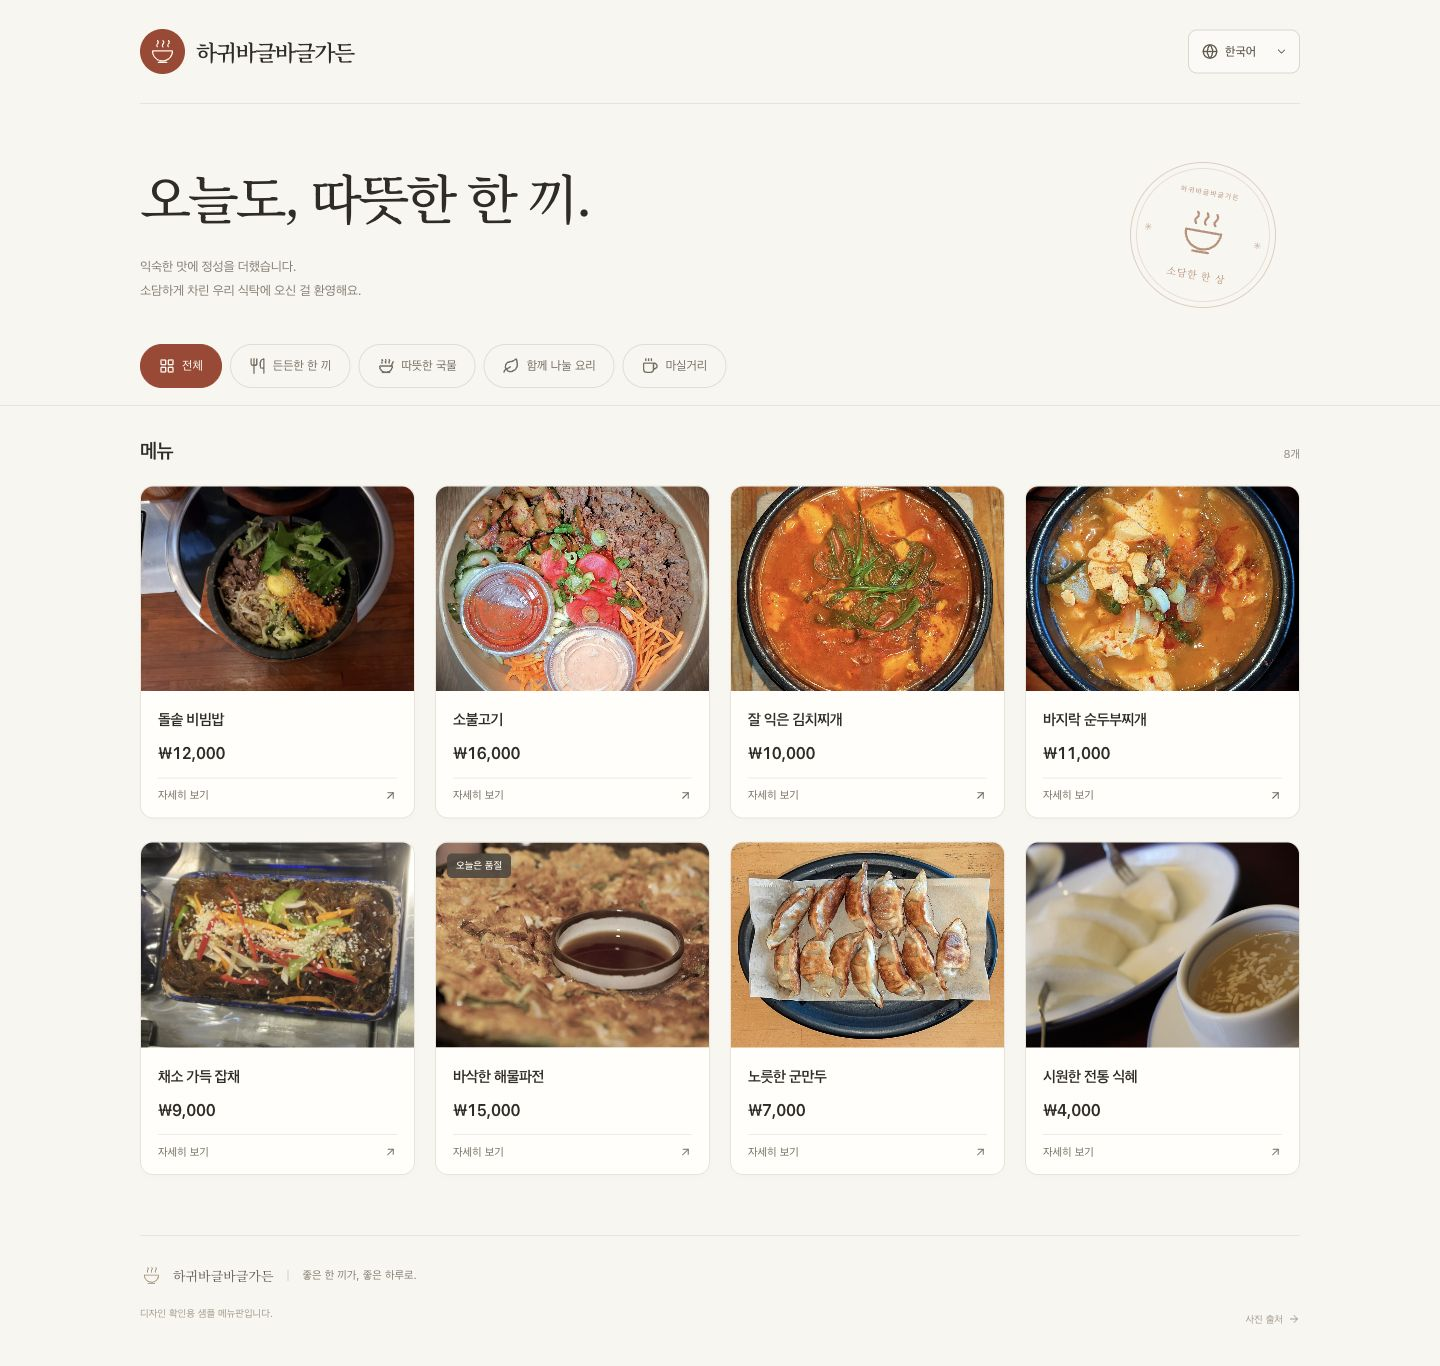
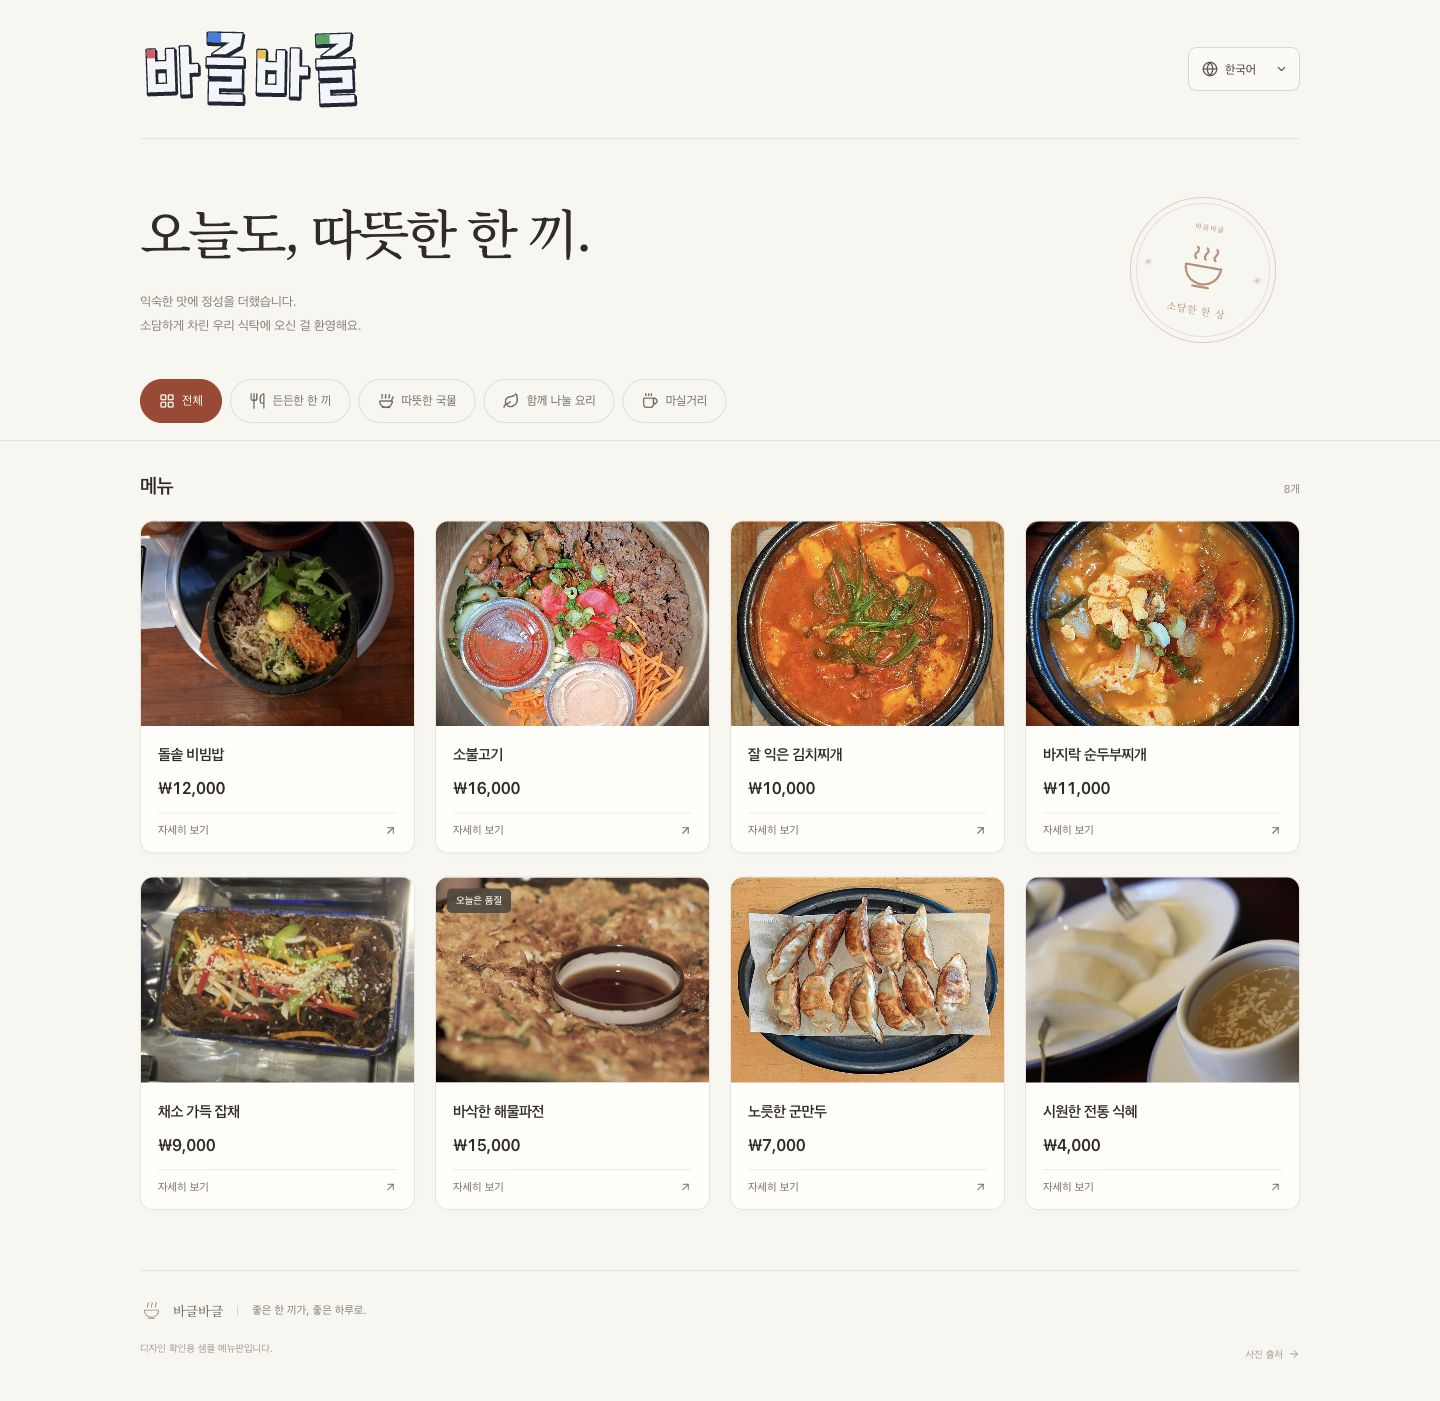
feat: add sign-inspired Bageul Bageul wordmark

diff --git a/public/photo-credits.html b/public/photo-credits.html
@@ -1,1 +1,1 @@
-<!doctype html><html lang="en"><meta charset="utf-8"><meta name="viewport" content="width=device-width,initial-scale=1"><title>Photo credits · 하귀바글바글가든</title><style>body{max-width:880px;margin:40px auto;padding:24px;font:16px/1.6 system-ui;background:#f8f6f0;color:#302c25}article{display:flex;gap:24px;padding:24px 0;border-bottom:1px solid #ddd}img{width:120px;height:100px;object-fit:cover;border-radius:8px}h2{font-size:18px;margin:0}p{margin:4px 0}a{color:#a44430}@media(max-width:500px){article{display:block}}</style><a href="/menu">← Menu</a><h1>Photo credits</h1><p>Demo photographs. Original licenses apply to each image. These are not photographs supplied by the restaurant.</p><article><img src="/images/bibimbap.jpg" alt="Hot stone pot bibimbap with beef (Bulgogi dolsot bibimbap) - Kogi 2023-10-16.jpg"><div><h2>Hot stone pot bibimbap with beef (Bulgogi dolsot bibimbap) - Kogi 2023-10-16.jpg</h2><p>Andy Li</p><p><a href="https://commons.wikimedia.org/wiki/File:Hot_stone_pot_bibimbap_with_beef_(Bulgogi_dolsot_bibimbap)_-_Kogi_2023-10-16.jpg">Wikimedia Commons source</a> · <a href="http://creativecommons.org/publicdomain/zero/1.0/deed.en">CC0</a></p><p>Resized and recompressed as JPEG; displayed with responsive cropping.</p></div></article><article><img src="/images/bulgogi.jpg" alt="Beef bulgogi - Cambridge, MA.jpg"><div><h2>Beef bulgogi - Cambridge, MA.jpg</h2><p>Daderot</p><p><a href="https://commons.wikimedia.org/wiki/File:Beef_bulgogi_-_Cambridge,_MA.jpg">Wikimedia Commons source</a> · <a href="http://creativecommons.org/publicdomain/zero/1.0/deed.en">CC0</a></p><p>Resized and recompressed as JPEG; displayed with responsive cropping.</p></div></article><article><img src="/images/kimchi.jpg" alt="Kimchi jjigae - San Francisco, CA.jpg"><div><h2>Kimchi jjigae - San Francisco, CA.jpg</h2><p>Daderot</p><p><a href="https://commons.wikimedia.org/wiki/File:Kimchi_jjigae_-_San_Francisco,_CA.jpg">Wikimedia Commons source</a> · <a href="http://creativecommons.org/publicdomain/zero/1.0/deed.en">CC0</a></p><p>Resized and recompressed as JPEG; displayed with responsive cropping.</p></div></article><article><img src="/images/tofu.jpg" alt="Sundubu-jjigae - San Francisco, CA.jpg"><div><h2>Sundubu-jjigae - San Francisco, CA.jpg</h2><p>Daderot</p><p><a href="https://commons.wikimedia.org/wiki/File:Sundubu-jjigae_-_San_Francisco,_CA.jpg">Wikimedia Commons source</a> · <a href="http://creativecommons.org/publicdomain/zero/1.0/deed.en">CC0</a></p><p>Resized and recompressed as JPEG; displayed with responsive cropping.</p></div></article><article><img src="/images/japchae.jpg" alt="Japchae 잡채G.jpg"><div><h2>Japchae 잡채G.jpg</h2><p>Wikimedia Commons contributor</p><p><a href="https://commons.wikimedia.org/wiki/File:Japchae_%EC%9E%A1%EC%B1%84G.jpg">Wikimedia Commons source</a> · <a href="https://creativecommons.org/licenses/by-sa/4.0">CC BY-SA 4.0</a></p><p>Resized and recompressed as JPEG; displayed with responsive cropping.</p></div></article><article><img src="/images/pajeon.jpg" alt="Haemul-pajeon 1.jpg"><div><h2>Haemul-pajeon 1.jpg</h2><p>Jirka Matousek</p><p><a href="https://commons.wikimedia.org/wiki/File:Haemul-pajeon_1.jpg">Wikimedia Commons source</a> · <a href="https://creativecommons.org/licenses/by/2.0">CC BY 2.0</a></p><p>Resized and recompressed as JPEG; displayed with responsive cropping.</p></div></article><article><img src="/images/mandu.jpg" alt="Gunmandu - San Francisco, CA.jpg"><div><h2>Gunmandu - San Francisco, CA.jpg</h2><p>Daderot</p><p><a href="https://commons.wikimedia.org/wiki/File:Gunmandu_-_San_Francisco,_CA.jpg">Wikimedia Commons source</a> · <a href="http://creativecommons.org/publicdomain/zero/1.0/deed.en">CC0</a></p><p>Resized and recompressed as JPEG; displayed with responsive cropping.</p></div></article><article><img src="/images/sikhye.jpg" alt="Sikhye.jpg"><div><h2>Sikhye.jpg</h2><p>뚱표아빠의 세상사는 이야기</p><p><a href="https://commons.wikimedia.org/wiki/File:Sikhye.jpg">Wikimedia Commons source</a> · <a href="https://creativecommons.org/licenses/by/4.0">CC BY 4.0</a></p><p>Resized and recompressed as JPEG; displayed with responsive cropping.</p></div></article></html>
+<!doctype html><html lang="en"><meta charset="utf-8"><meta name="viewport" content="width=device-width,initial-scale=1"><title>Photo credits · 바글바글</title><style>body{max-width:880px;margin:40px auto;padding:24px;font:16px/1.6 system-ui;background:#f8f6f0;color:#302c25}article{display:flex;gap:24px;padding:24px 0;border-bottom:1px solid #ddd}img{width:120px;height:100px;object-fit:cover;border-radius:8px}h2{font-size:18px;margin:0}p{margin:4px 0}a{color:#a44430}@media(max-width:500px){article{display:block}}</style><a href="/menu">← Menu</a><h1>Photo credits</h1><p>Demo photographs. Original licenses apply to each image. These are not photographs supplied by the restaurant.</p><article><img src="/images/bibimbap.jpg" alt="Hot stone pot bibimbap with beef (Bulgogi dolsot bibimbap) - Kogi 2023-10-16.jpg"><div><h2>Hot stone pot bibimbap with beef (Bulgogi dolsot bibimbap) - Kogi 2023-10-16.jpg</h2><p>Andy Li</p><p><a href="https://commons.wikimedia.org/wiki/File:Hot_stone_pot_bibimbap_with_beef_(Bulgogi_dolsot_bibimbap)_-_Kogi_2023-10-16.jpg">Wikimedia Commons source</a> · <a href="http://creativecommons.org/publicdomain/zero/1.0/deed.en">CC0</a></p><p>Resized and recompressed as JPEG; displayed with responsive cropping.</p></div></article><article><img src="/images/bulgogi.jpg" alt="Beef bulgogi - Cambridge, MA.jpg"><div><h2>Beef bulgogi - Cambridge, MA.jpg</h2><p>Daderot</p><p><a href="https://commons.wikimedia.org/wiki/File:Beef_bulgogi_-_Cambridge,_MA.jpg">Wikimedia Commons source</a> · <a href="http://creativecommons.org/publicdomain/zero/1.0/deed.en">CC0</a></p><p>Resized and recompressed as JPEG; displayed with responsive cropping.</p></div></article><article><img src="/images/kimchi.jpg" alt="Kimchi jjigae - San Francisco, CA.jpg"><div><h2>Kimchi jjigae - San Francisco, CA.jpg</h2><p>Daderot</p><p><a href="https://commons.wikimedia.org/wiki/File:Kimchi_jjigae_-_San_Francisco,_CA.jpg">Wikimedia Commons source</a> · <a href="http://creativecommons.org/publicdomain/zero/1.0/deed.en">CC0</a></p><p>Resized and recompressed as JPEG; displayed with responsive cropping.</p></div></article><article><img src="/images/tofu.jpg" alt="Sundubu-jjigae - San Francisco, CA.jpg"><div><h2>Sundubu-jjigae - San Francisco, CA.jpg</h2><p>Daderot</p><p><a href="https://commons.wikimedia.org/wiki/File:Sundubu-jjigae_-_San_Francisco,_CA.jpg">Wikimedia Commons source</a> · <a href="http://creativecommons.org/publicdomain/zero/1.0/deed.en">CC0</a></p><p>Resized and recompressed as JPEG; displayed with responsive cropping.</p></div></article><article><img src="/images/japchae.jpg" alt="Japchae 잡채G.jpg"><div><h2>Japchae 잡채G.jpg</h2><p>Wikimedia Commons contributor</p><p><a href="https://commons.wikimedia.org/wiki/File:Japchae_%EC%9E%A1%EC%B1%84G.jpg">Wikimedia Commons source</a> · <a href="https://creativecommons.org/licenses/by-sa/4.0">CC BY-SA 4.0</a></p><p>Resized and recompressed as JPEG; displayed with responsive cropping.</p></div></article><article><img src="/images/pajeon.jpg" alt="Haemul-pajeon 1.jpg"><div><h2>Haemul-pajeon 1.jpg</h2><p>Jirka Matousek</p><p><a href="https://commons.wikimedia.org/wiki/File:Haemul-pajeon_1.jpg">Wikimedia Commons source</a> · <a href="https://creativecommons.org/licenses/by/2.0">CC BY 2.0</a></p><p>Resized and recompressed as JPEG; displayed with responsive cropping.</p></div></article><article><img src="/images/mandu.jpg" alt="Gunmandu - San Francisco, CA.jpg"><div><h2>Gunmandu - San Francisco, CA.jpg</h2><p>Daderot</p><p><a href="https://commons.wikimedia.org/wiki/File:Gunmandu_-_San_Francisco,_CA.jpg">Wikimedia Commons source</a> · <a href="http://creativecommons.org/publicdomain/zero/1.0/deed.en">CC0</a></p><p>Resized and recompressed as JPEG; displayed with responsive cropping.</p></div></article><article><img src="/images/sikhye.jpg" alt="Sikhye.jpg"><div><h2>Sikhye.jpg</h2><p>뚱표아빠의 세상사는 이야기</p><p><a href="https://commons.wikimedia.org/wiki/File:Sikhye.jpg">Wikimedia Commons source</a> · <a href="https://creativecommons.org/licenses/by/4.0">CC BY 4.0</a></p><p>Resized and recompressed as JPEG; displayed with responsive cropping.</p></div></article></html>

diff --git a/src/components/BrandWordmark.tsx b/src/components/BrandWordmark.tsx
@@ -1,0 +1,66 @@
+const ba =
+  "M8 25H20V43H37V25H49V89H8Z M20 55V77H37V55Z M58 22H71V49H84V62H71V94H58Z";
+const geul =
+  "M5 3H57L54 22L32 35H12L38 17H5Z M4 40H59V51H4Z M8 57H57V86H23V95H59V106H8V76H42V68H8Z";
+
+// Paths keep the sign-inspired lettering consistent without a device font.
+const letters = [
+  {
+    path: ba,
+    transform: "translate(3 5) rotate(-2 42 55)",
+    accent: "M8 25H20V38H8Z",
+    color: "#e74d64",
+  },
+  {
+    path: geul,
+    transform: "translate(96 3) rotate(1 30 55)",
+    accent: "M5 3H25V17H5Z",
+    color: "#347ee5",
+  },
+  {
+    path: ba,
+    transform: "translate(168 7) rotate(1 42 55)",
+    accent: "M8 25H20V38H8Z",
+    color: "#f4bd34",
+  },
+  {
+    path: geul,
+    transform: "translate(261 5) rotate(-2 30 55)",
+    accent: "M5 3H25V17H5Z",
+    color: "#37a35b",
+  },
+];
+
+export function BrandWordmark() {
+  return (
+    <svg
+      className="brand-wordmark"
+      viewBox="0 0 330 120"
+      fill="none"
+      aria-hidden="true"
+      focusable="false"
+    >
+      {letters.map((letter, index) => (
+        <g key={index} transform={letter.transform} strokeLinejoin="round">
+          <path
+            d={letter.path}
+            fill="#202736"
+            fillRule="evenodd"
+            stroke="#202736"
+            strokeWidth="6"
+            transform="translate(1 3)"
+          />
+          <path
+            d={letter.path}
+            fill="#f4f5f8"
+            fillRule="evenodd"
+            stroke="#202736"
+            strokeWidth="4"
+            paintOrder="stroke"
+          />
+          <path d={letter.accent} fill={letter.color} />
+        </g>
+      ))}
+    </svg>
+  );
+}

diff --git a/src/i18n/copy.ts b/src/i18n/copy.ts
@@ -37,7 +37,7 @@ interface Copy {
 
 export const copy: Record<Locale, Copy> = {
   ko: {
-    restaurant: "하귀바글바글가든",
+    restaurant: "바글바글",
     tagline: "정성을 담은 한 끼",
     heroTitle: "오늘도, 따뜻한 한 끼.",
     heroDescription:
@@ -72,7 +72,7 @@ export const copy: Record<Locale, Copy> = {
     originalName: "한국어 메뉴명",
   },
   en: {
-    restaurant: "하귀바글바글가든",
+    restaurant: "바글바글",
     tagline: "A meal made with care",
     heroTitle: "A little comfort, served warm.",
     heroDescription:
@@ -108,7 +108,7 @@ export const copy: Record<Locale, Copy> = {
     originalName: "Korean menu name",
   },
   "zh-Hans": {
-    restaurant: "하귀바글바글가든",
+    restaurant: "바글바글",
     tagline: "用心做的一餐",
     heroTitle: "今天，也要好好吃饭。",
     heroDescription: "用心烹调熟悉的韩式滋味。\n欢迎来到我们温暖的餐桌。",
@@ -142,7 +142,7 @@ export const copy: Record<Locale, Copy> = {
     originalName: "韩语菜名",
   },
   "zh-Hant": {
-    restaurant: "하귀바글바글가든",
+    restaurant: "바글바글",
     tagline: "用心做的一餐",
     heroTitle: "今天，也要好好吃飯。",
     heroDescription: "用心烹調熟悉的韓式滋味。\n歡迎來到我們溫暖的餐桌。",

diff --git a/src/styles.css b/src/styles.css
@@ -64,28 +64,10 @@ select {
   align-items: center;
   gap: 11px;
 }
-.brand-symbol {
-  width: 45px;
-  height: 45px;
-  border-radius: 50%;
-  display: grid;
-  place-items: center;
-  color: #fff7eb;
-  background: var(--accent);
-}
-.brand-symbol svg {
-  width: 32px;
-  height: 32px;
-}
 .brand-wordmark {
-  display: grid;
-}
-.brand-wordmark strong {
-  font-family: var(--serif);
-  font-size: 22px;
-  letter-spacing: -0.07em;
-  font-weight: 600;
-  white-space: nowrap;
+  display: block;
+  width: 220px;
+  height: 80px;
 }
 .language-select {
   position: relative;
@@ -748,16 +730,9 @@ select {
   .site-header {
     padding-block: 20px;
   }
-  .brand-symbol {
-    width: 39px;
-    height: 39px;
-  }
-  .brand-symbol svg {
-    width: 28px;
-    height: 28px;
-  }
-  .brand-wordmark strong {
-    font-size: 19px;
+  .brand-wordmark {
+    width: 180px;
+    height: 66px;
   }
   .brand {
     gap: 9px;
@@ -933,8 +908,9 @@ select {
   .card-body {
     padding: 15px;
   }
-  .brand-wordmark strong {
-    font-size: 17px;
+  .brand-wordmark {
+    width: 154px;
+    height: 56px;
   }
   .hero h1 {
     font-size: 27px;

diff --git a/src/App.tsx b/src/App.tsx
@@ -10,6 +10,7 @@ import {
   CircleAlert,
 } from "lucide-react";
 import { BrandMark } from "./components/BrandMark";
+import { BrandWordmark } from "./components/BrandWordmark";
 import { LanguageSelect } from "./components/LanguageSelect";
 import { MenuCard } from "./components/MenuCard";
 import { MenuDetail } from "./components/MenuDetail";
@@ -60,12 +61,7 @@ export default function App() {
           href={`/menu?lang=${locale}`}
           aria-label={t.restaurant}
         >
-          <span className="brand-symbol">
-            <BrandMark />
-          </span>
-          <span className="brand-wordmark">
-            <strong>{t.restaurant}</strong>
-          </span>
+          <BrandWordmark />
         </a>
         <LanguageSelect locale={locale} onChange={setLocale} />
       </header>

diff --git a/index.html b/index.html
@@ -6,10 +6,10 @@
     <meta name="theme-color" content="#f8f6f0" />
     <meta
       name="description"
-      content="하귀바글바글가든의 사진 메뉴판. 한국어, English, 简体中文, 繁體中文으로 만나보세요."
+      content="바글바글의 사진 메뉴판. 한국어, English, 简体中文, 繁體中文으로 만나보세요."
     />
     <link rel="icon" type="image/svg+xml" href="/favicon.svg" />
-    <title>하귀바글바글가든 · 정성을 담은 한 끼</title>
+    <title>바글바글 · 정성을 담은 한 끼</title>
   </head>
   <body>
     <div id="root"></div>

diff --git a/README.md b/README.md
@@ -1,4 +1,4 @@
-# QR MENU · 하귀바글바글가든
+# QR MENU · 바글바글
 
 테이블에서 QR을 찍어 사진과 함께 메뉴를 읽는 모바일 중심 웹 메뉴판입니다. 한국어·영어·중국어 간체·중국어 번체를 지원합니다.
 
@@ -16,7 +16,9 @@
 - 뒤로가기·닫기·Escape로 상세 닫기, 목록 위치와 초점 복원
 - 로딩·빈 목록·조회 실패·재시도·이미지 실패 상태
 
-상호·메뉴·사진·가격·번역·원산지·알레르기 정보는 모두 디자인 확인용 샘플입니다. 실제 매장의 정보나 검수한 식품 정보를 뜻하지 않습니다. 주문·장바구니·결제·ASK·분석 도구·관리자 화면·실제 API 연결은 이 프론트 초안에 포함하지 않습니다.
+메뉴·사진·가격·번역·원산지·알레르기 정보는 모두 디자인 확인용 샘플입니다. 실제 매장의 정보나 검수한 식품 정보를 뜻하지 않습니다. 주문·장바구니·결제·ASK·분석 도구·관리자 화면·실제 API 연결은 이 프론트 초안에 포함하지 않습니다.
+
+상호는 **바글바글**이며, 헤더 로고는 매장 간판의 굵은 글씨와 네 가지 색상 포인트를 참고해 SVG 경로로 제작했습니다. 별도 폰트 다운로드 없이 기기마다 동일하게 표시됩니다. 로고는 `src/components/BrandWordmark.tsx`에서 수정합니다.
 
 ## 화면
 
